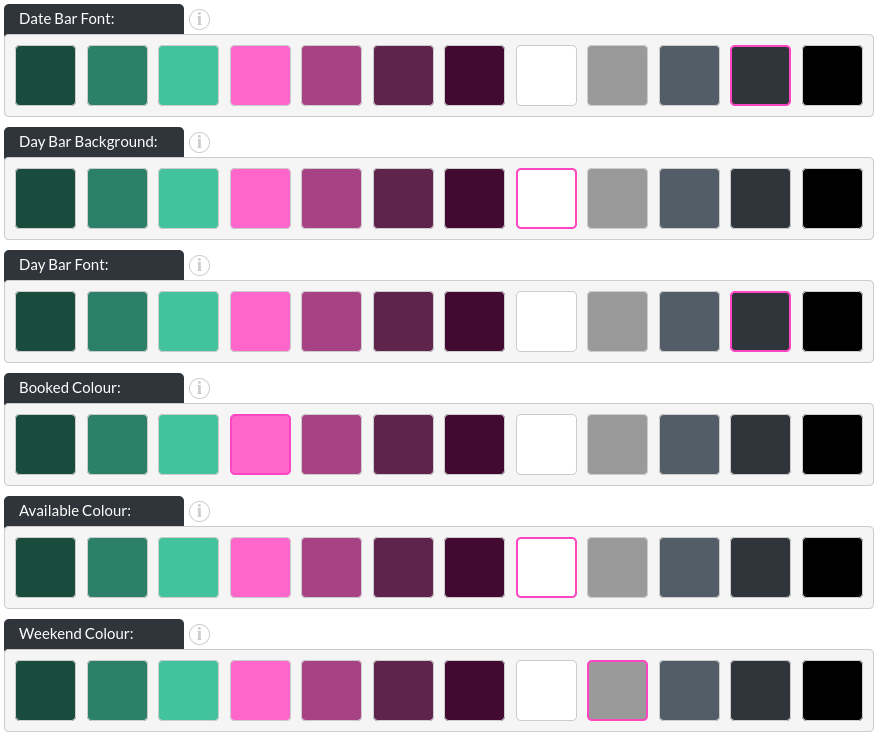
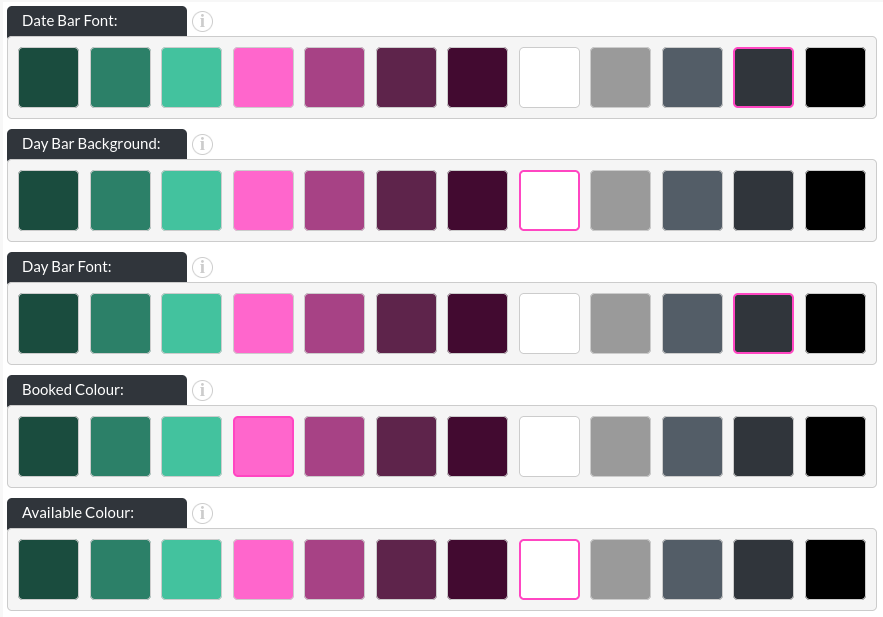
docs deploy

diff --git a/docs/6_Modules/23_calendar.md b/docs/6_Modules/23_calendar.md
@@ -205,9 +205,8 @@ You can define the colour that weekends are highlighted with.
 
 ![Image of the calendar - hotel bookings module, showing the colour options in website builder](https://raw.githubusercontent.com/pinkpigeondocs/Pink-Pigeon-Documentation/master/docs/6_Modules/images/23_calendar_hotel_bookings_colours_in_cms_1.png)
 ![Image of the calendar - hotel bookings module, showing the colour options in website builder](https://raw.githubusercontent.com/pinkpigeondocs/Pink-Pigeon-Documentation/master/docs/6_Modules/images/23_calendar_hotel_bookings_colours_in_cms_2.png)
-![Image of the calendar - hotel bookings module, showing the colour options in website builder](https://raw.githubusercontent.com/pinkpigeondocs/Pink-Pigeon-Documentation/master/docs/6_Modules/images/23_calendar_hotel_bookings_colours_in_cms_3.png)
 
-There are 14 customisable colour options available for the calendar module.
+There are 11 customisable colour options available for the calendar module.
 
 - **Sidebar Background:**
 ![Image of the calendar - hotel bookings module, showing the sidebar background colour online](https://raw.githubusercontent.com/pinkpigeondocs/Pink-Pigeon-Documentation/master/docs/6_Modules/images/23_calendar_hotel_bookings_online_sidebar_background.png)
